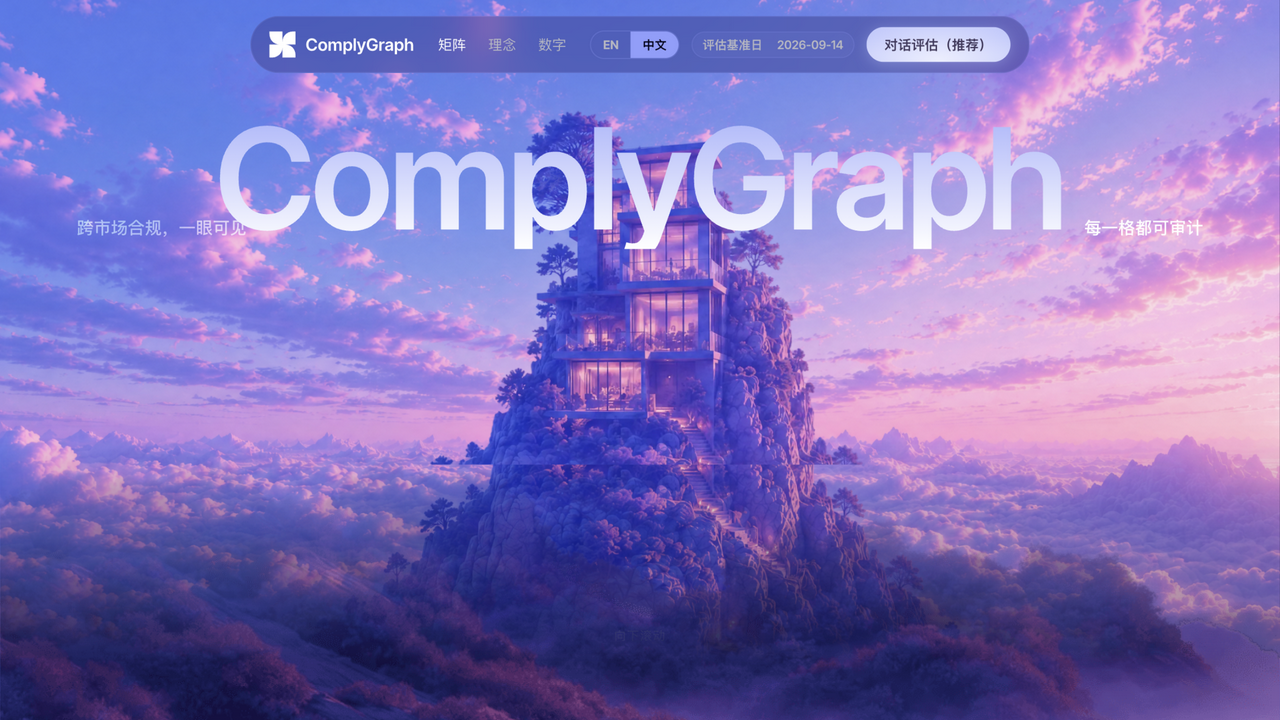
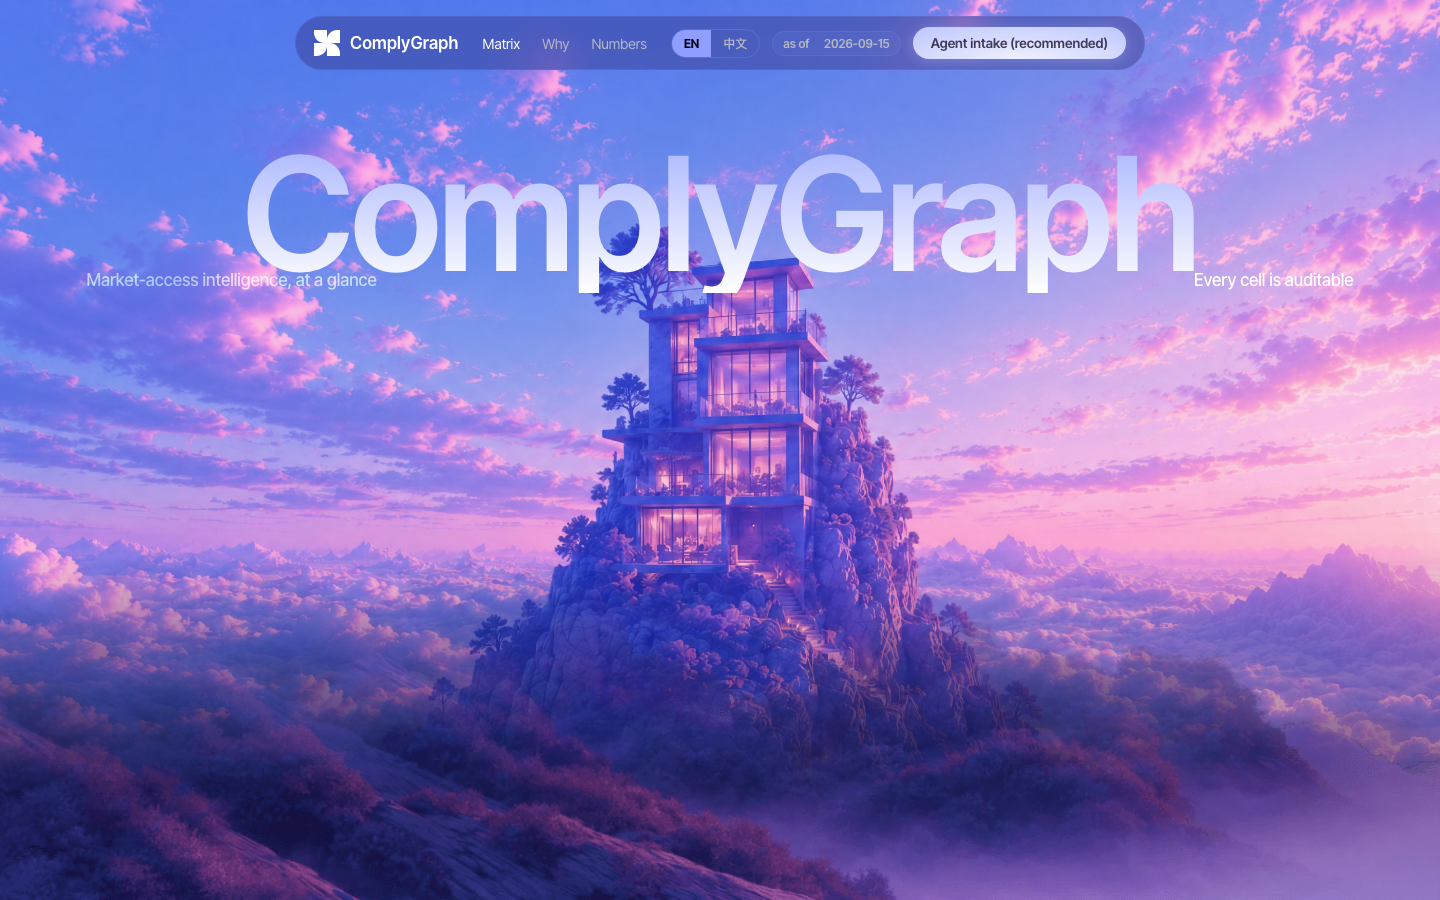
docs: English screenshots (hero/matrix/detail) + ?lang & ?scrollto & ?compact & ?open URL params for deterministic capture

diff --git a/complygraph/web/i18n.js b/complygraph/web/i18n.js
@@ -25,14 +25,6 @@ const I18N = {
     scroll_cue: "SCROLL",
     stats_heading: "Only verified numbers here",
     reveal_text: "We turn product facts, versioned regulations and your evidence into one auditable traffic light — so that every green decision can be traced back to an exact provision, a rule version and a file.",
-    nav_map: "矩阵",
-    nav_why: "理念",
-    nav_stats: "数字",
-    hero_sub_left: "跨市场合规，一眼可见",
-    hero_sub_right: "每一格都可审计",
-    scroll_cue: "向下滚动",
-    stats_heading: "只放经过验证的数字",
-    reveal_text: "我们相信，跨境合规不应该是一场信息迷雾。ComplyGraph 把你的产品事实、版本化的法规和手里的证据，压缩成一张可审计的红绿灯——每一个绿色判定，都能追溯到具体的条款、规则版本与证据文件。",
     map_sub: "Every cell is a deterministic decision — click to open the full audit trail.",
     disclaimer: "Scope notice: this engine only checks the modelled rule packs below. It is decision support, not legal advice, and not a full compliance determination. Rules are versioned candidates — verify against cited sources.",
     impact_btn: "⚡ Regulation change impact",
@@ -189,6 +181,14 @@ const I18N = {
     stat_avg_hint: "全部格子",
     map_title: "全球市场准入地图",
     map_sub: "每个格子都是一次确定性判定——点击查看完整审计链。",
+    nav_map: "矩阵",
+    nav_why: "理念",
+    nav_stats: "数字",
+    hero_sub_left: "跨市场合规，一眼可见",
+    hero_sub_right: "每一格都可审计",
+    scroll_cue: "向下滚动",
+    stats_heading: "只放经过验证的数字",
+    reveal_text: "我们相信，跨境合规不应该是一场信息迷雾。ComplyGraph 把你的产品事实、版本化的法规和手里的证据，压缩成一张可审计的红绿灯——每一个绿色判定，都能追溯到具体的条款、规则版本与证据文件。",
     disclaimer: "覆盖范围声明：引擎仅核查下方已建模的规则包，属于决策支持工具，不构成法律意见或完整合规评估。规则均为带引用的候选版本，请对照权威源核实。",
     impact_btn: "⚡ 法规变更影响",
     col_sku: "SKU",
@@ -257,6 +257,19 @@ const I18N = {
     chat_btn: "对话评估（推荐）",
     chat_title: "合规问答助手",
     chat_llm_hint: "（LLM 大脑已激活——自由输入，或点按钮。我只汇报确定性引擎返回的结果。）",
+    advise_btn: "整改建议",
+    recommend_btn: "市场推荐",
+    advise_for: "整改计划 ·",
+    advise_steps: "项行动",
+    advise_clear: "已建模范围内没有缺失——做得好。",
+    recommend_title: "市场推荐",
+    recommend_sub: "为本产品排序所有已注册市场（NTM 骨架市场仅准入级检查）",
+    cls_ready: "可直接销售",
+    cls_minor: "小缺口",
+    cls_fixable: "少量整改",
+    cls_norules: "暂无适用规则",
+    cls_costly: "成本较高",
+    rec_targeted: "已选市场",
     chat_send: "发送",
     chat_skip: "跳过 / 不确定",
     chat_welcome: "你好！我会问你几个关于产品的问题，判断哪些规则适用于你，并明确告诉你还缺什么。拿不准的就跳过——unknown 永远不是 pass。",
@@ -306,7 +319,9 @@ const I18N = {
   },
 };
 
+const URL_LANG = new URLSearchParams(location.search).get("lang");
 let LANG =
+  (URL_LANG && ["en", "zh"].includes(URL_LANG) ? URL_LANG : null) ||
   localStorage.getItem("cg-lang") ||
   ((navigator.language || "en").toLowerCase().startsWith("zh") ? "zh" : "en");
 

diff --git a/complygraph/web/app.js b/complygraph/web/app.js
@@ -733,6 +733,26 @@ applyLang();
 getJSON("/api/map").then((map) => {
   renderStats(map);
   renderMap(map);
+  // deep-link: ?open=SKU&market=de opens the audit drill-down for that cell
+  const params = new URLSearchParams(location.search);
+  if (params.has("nofx")) document.documentElement.classList.add("nofx");
+  if (params.has("compact")) document.body.classList.add("compact");
+  const openSku = params.get("open");
+  if (openSku) {
+    const mk = params.get("market") || "de";
+    const col = (map.columns.find((c) => c.market === mk)) || { label: mk.toUpperCase() };
+    const chan = (map.columns.find((c) => c.market === mk) || {}).channel || null;
+    openDetail(openSku, mk, chan, col.label);
+  }
+  const scrollTo = params.get("scrollto");
+  if (scrollTo) {
+    const [sid, offStr] = scrollTo.split(":");
+    const el = document.getElementById(sid);
+    if (el) {
+      const top = el.getBoundingClientRect().top + window.scrollY - 96 - (parseInt(offStr, 10) || 0);
+      window.scrollTo({ top, behavior: "auto" });
+    }
+  }
   const dis = document.querySelector(".disclaimer span[data-i18n]");
   if (dis && map.modelled_rules) {
     dis.innerHTML = t("disclaimer_dyn", { rules: map.modelled_rules, markets: map.modelled_markets });

diff --git a/complygraph/web/style.css b/complygraph/web/style.css
@@ -464,3 +464,18 @@ table.rules tr.status-expired td, table.rules tr.status-unknown td { background:
 .recommend-list { display: grid; gap: 10px; }
 .rec-row { display: flex; align-items: center; gap: 12px; font-size: 14px; }
 .rec-blockers { font-size: 12px; color: var(--muted); margin: 4px 0 8px; line-height: 1.5; }
+
+/* screenshot mode (?nofx=1): disable compositing-heavy effects for headless capture */
+.nofx .card, .nofx .chat-drawer, .nofx .modal, .nofx .pill-inner, .nofx .tile,
+.nofx .impact-card, .nofx .cell-btn, .nofx .msg .bubble {
+  backdrop-filter: none !important; -webkit-backdrop-filter: none !important;
+}
+.nofx *, .nofx *::before, .nofx *::after {
+  animation: none !important; transition: none !important;
+}
+.nofx .hero-layer { position: absolute; }
+
+.compact .hero { display: none !important; }
+
+.compact .marquee-zone, .compact .wrap { margin-top: 0; }
+.compact .marquee-zone { padding-top: 86px; }

diff --git a/README.md b/README.md
@@ -9,9 +9,11 @@
 
 ---
 
-![Market Access Map](docs/screenshots/matrix.png)
+![ComplyGraph hero](docs/screenshots/hero.png)
 
-*SKU × 市场就绪矩阵：点击任意格子查看完整审计链（规则版本 → 法条引用 → 证据文件）*
+![Global Market Access Map](docs/screenshots/matrix.png)
+
+*Every cell is a deterministic, auditable decision — click through to the rule version, legal provision and evidence behind it.*
 
 ## 它解决什么问题
 
